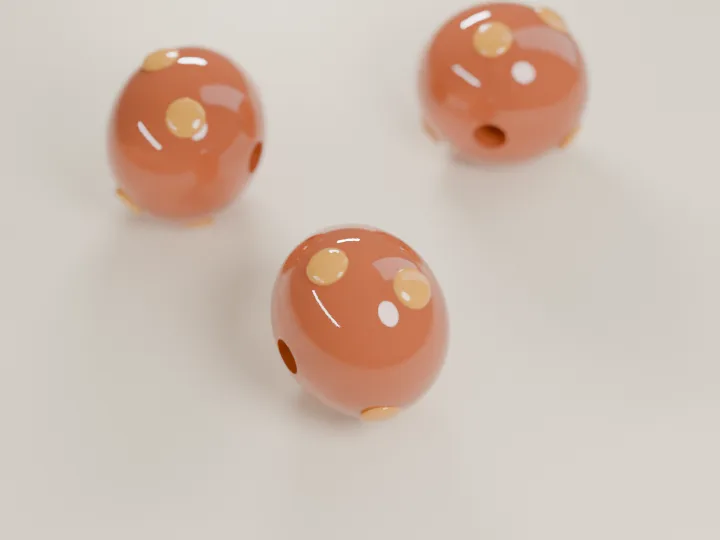
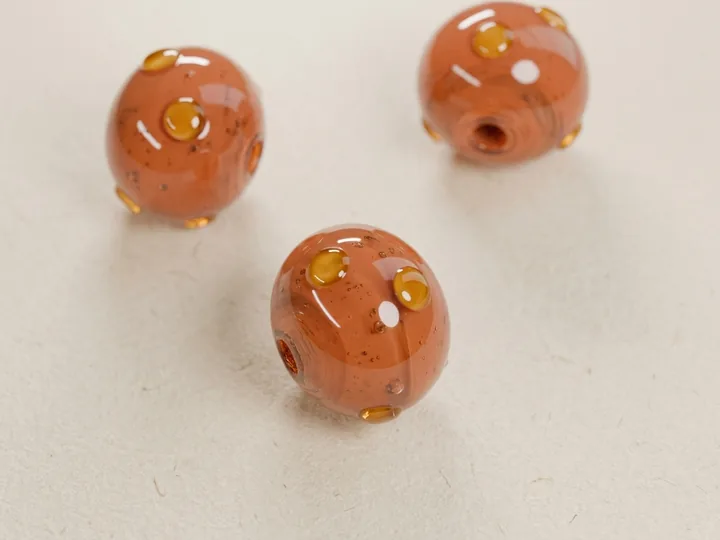
feat(site): photos made with Google Gemini
All 19 site photos and the social preview background now come from Google
Gemini. Product photos and the hero necklace start from their Blender renders
(art/blender/), so colors and shapes match the catalog; the two collection
banners and the workshop photo are new.

- scripts/gemini_jobs.json: a logo_style for the logo concepts, so they
  don't get the photo style; build_prompt picks it per job (with a test)
- docs/site-images.md rewritten for the Gemini workflow, decision 0012,
  credits in the README, a CHANGELOG entry
- new screenshots 22 and 23, and a product photo contact sheet
- photos.ts: drop the unused AI_PHOTOS list

diff --git a/frontend/src/site/photos.ts b/frontend/src/site/photos.ts
@@ -1,9 +1,8 @@
 /**
  * The site's photos (decision 0011), bundled by Vite from src/site/img/.
- *   - Product shots, the starter set and the hero necklace are rendered by
- *     scripts/render_site_art.py (Blender).
- *   - Scene photos (collection banners, workshop) are AI-generated, prepared by
- *     scripts/prepare_site_photos.py; see docs/site-images.md.
+ * All of them are made with Google Gemini (products and the hero from Blender
+ * reference renders in art/blender/) and prepared by scripts/prepare_site_photos.py;
+ * see docs/site-images.md.
  * A missing file is fine: the page falls back to its SVG drawing.
  */
 const FILES = import.meta.glob("./img/*.webp", { eager: true, query: "?url", import: "default" }) as Record<string, string>;
@@ -11,6 +10,3 @@ const FILES = import.meta.glob("./img/*.webp", { eager: true, query: "?url", imp
 export function photo(name: string): string | undefined {
   return FILES[`./img/${name}.webp`];
 }
-
-/** Scene photos that are generated with an AI tool, not rendered. */
-export const AI_PHOTOS = ["collection-amber-hollow", "collection-coastal-garden", "story-workshop"] as const;

diff --git a/docs/getting-started.html b/docs/getting-started.html
@@ -153,7 +153,7 @@ cd backend &amp;&amp; .venv/Scripts/python -m app.cli seed-demo         <span cl
   <h2><span class="n">5</span>Take the tour</h2>
   <div class="step">
     <div><p><b>① The company's website:</b> <a href="http://localhost:8000/site">localhost:8000/site</a>. The dark strip on top is the demo guide. It isn't part of the company's design; it shows reviewers the way.</p></div>
-    <figure><img src="showcase/img/22-site-home.jpg" alt="The public website of Hilda &amp; Luna Beadworks" loading="lazy"><figcaption>The product photos are Blender renders made by a script in the repo.</figcaption></figure>
+    <figure><img src="showcase/img/22-site-home.jpg" alt="The public website of Hilda &amp; Luna Beadworks" loading="lazy"><figcaption>The product photos were made with Google Gemini, starting from Blender renders of each item.</figcaption></figure>
   </div>
   <div class="step">
     <div><p><b>② Employee login → Enter as demo employee.</b> The sign-in is a simulation: no accounts, one button.</p></div>

diff --git a/frontend/src/site/ProductCard.tsx b/frontend/src/site/ProductCard.tsx
@@ -11,8 +11,7 @@ export function price(value: number, lang: Lang): string {
 }
 
 /**
- * The rendered product photo when there is one (scripts/render_site_art.py),
- * otherwise the SVG drawing.
+ * The product photo when there is one (docs/site-images.md), otherwise the SVG drawing.
  */
 export function Picture({ name, alt, fallback, className }: { name: string; alt: string; fallback: ReactNode; className?: string }) {
   const src = photo(name);

diff --git a/frontend/src/site/content.ts b/frontend/src/site/content.ts
@@ -83,7 +83,7 @@ export interface Collection {
   body: Bi;
   palette: string[];
   charms: CharmKind[];
-  /** Describes the AI-generated banner photo (docs/site-images.md), if there is one. */
+  /** Describes the banner photo (made with Google Gemini, docs/site-images.md). */
   photoAlt: Bi;
 }
 

diff --git a/scripts/gemini_images.py b/scripts/gemini_images.py
@@ -97,9 +97,11 @@ def png_bytes(path: Path) -> bytes:
 
 
 def build_prompt(job: dict, spec: dict) -> str:
+    """The job's text plus a shared style; logos use "logo_style" instead of the photo style."""
+    style = spec[f"{job['style']}_style"] if job.get("style") else spec["style"]
     if "product" in job:
-        return f"{spec['product_style']} The object: {job['product']}. {spec['style']}"
-    return f"{job['prompt']} {spec['style']}"
+        return f"{spec['product_style']} The object: {job['product']}. {style}"
+    return f"{job['prompt']} {style}"
 
 
 def generate_one(

diff --git a/backend/tests/test_gemini_script.py b/backend/tests/test_gemini_script.py
@@ -36,6 +36,12 @@ def test_product_prompts_keep_the_reference_and_shared_style():
     )
 
 
+def test_logos_use_their_own_style_instead_of_the_photo_style():
+    spec = {"style": "PHOTO.", "logo_style": "VECTOR."}
+    prompt = gemini.build_prompt({"name": "logo-1", "prompt": "A moon.", "style": "logo"}, spec)
+    assert prompt == "A moon. VECTOR."
+
+
 def test_every_job_has_a_prompt_and_existing_reference():
     import json
 

diff --git a/docs/site-images.md b/docs/site-images.md
@@ -1,56 +1,66 @@
 # Images for the demo company's website
 
-The public site at `/site` (decision 0011) uses two kinds of images. Both live in `frontend/src/site/img/` as WebP. Any image that's missing falls back to the site's SVG drawing, so the site always works.
+The public site at `/site` (decision 0011) shows 19 photos: the hero necklace, two collection banners, the workshop photo and 15 product shots. All of them were made with **Google Gemini** ([decision 0012](decisions/0012-site-images-with-gemini.md)) and live in `frontend/src/site/img/` as WebP. A missing image falls back to the site's SVG drawing, so the site always works. Nothing is fetched at runtime, and the app never calls Gemini.
 
 | Kind | Images | How they're made |
 |---|---|---|
-| **Product renders** | 5 beads, 5 charms, 4 findings, the starter set, the hero necklace | Rendered by Blender from `scripts/render_site_art.py`: geometry and shaders, no photos. Original, no license questions, and they match the catalog exactly. |
-| **Scene photos** | Amber Hollow banner, Coastal Garden banner, workshop photo | Generated once with an AI image tool, then prepared by `scripts/prepare_site_photos.py`. |
+| **Products and hero** | 5 beads, 5 charms, 4 findings, the starter set, the hero necklace | A Blender render (`art/blender/`) is attached as the reference, and Gemini turns it into a photo while keeping the object's colors, shape and arrangement. |
+| **Scenes** | Amber Hollow banner, Coastal Garden banner, workshop photo | Text prompt only. |
+| **Social preview** | `docs/showcase/social-preview.jpg` | Gemini makes the background; `scripts/make_social_preview.py` adds the title text, because image models don't spell reliably. |
 
-Blender is only a build-time tool; the app never needs it, and no image is fetched at runtime.
+## The prompts
 
-## Product renders (Blender)
+Every prompt is in [`scripts/gemini_jobs.json`](../scripts/gemini_jobs.json): one job per image, with its shape, its reference render (if any) and its text. Shared style lines keep the set consistent:
 
-From the repo root, with Blender 4.x or 5.x installed:
+- `style`: the photo look (soft studio light, shallow depth of field, warm muted color, no text or logos)
+- `product_style`: "turn this 3D render into a photorealistic macro product photo of the same object…", used by every product
+- `logo_style`: for the logo concepts, which are drawings, not photos
+
+To see the final prompt for each job: `backend/.venv/Scripts/python scripts/gemini_images.py prompts`.
+
+## Making the images
+
+### In the Gemini app (how this set was made)
+
+The Gemini API's free tier allows no image generation, so this set was made in the free Gemini app at gemini.google.com, one new chat per image. The steps were automated with Claude in Chrome, but they're the same by hand:
+
+1. Run `backend/.venv/Scripts/python scripts/gemini_images.py sheet`. It writes `data/gemini/prompts.html`, a page with every prompt, a copy button and the reference image to attach.
+2. For each job, open a new chat, attach the reference (if there is one) and paste the prompt.
+3. Download the full-size image and save it as `data/gemini/raw/<name>.jpg` (or `.png`). The `data/` folder is git-ignored.
+
+About 40 seconds per image; the free app had no trouble with 24 images in a day.
+
+### With the API (if your key has image quota)
 
 ```bash
-blender -b --factory-startup -P scripts/render_site_art.py -- --out frontend/src/site/img
-blender -b --factory-startup -P scripts/render_site_art.py -- --only GB-1014 hero-strand --samples 32   # a few, quick
+backend/.venv/Scripts/python scripts/gemini_images.py check      # lists image models, makes one test image
+backend/.venv/Scripts/python scripts/gemini_images.py generate   # makes every missing image
 ```
 
-On a laptop CPU the full set takes about 10–15 minutes at the default 96 samples. The product list at the top of the script mirrors `frontend/src/site/content.ts`; change both together.
+The key comes from the `GEMINI_API_KEY` environment variable and is sent only in a request header. When the quota runs out, the run stops; run it again later and it skips finished images.
 
-## Scene photos (AI-generated)
+### Preparing them for the site
 
-1. Generate each image below with the AI tool of your choice. Adobe Firefly's terms suit commercial use; ChatGPT and Midjourney work too, so check their terms. Use a landscape format and the largest size the tool offers.
-2. Save them in one folder, named exactly after their slot, for example `collection-amber-hollow.png`.
-3. Run:
+```bash
+backend/.venv/Scripts/python scripts/prepare_site_photos.py      # → frontend/src/site/img/*.webp
+backend/.venv/Scripts/python scripts/make_social_preview.py      # → docs/showcase/social-preview.jpg
+```
 
-   ```bash
-   backend/.venv/Scripts/python scripts/prepare_site_photos.py path/to/folder
-   ```
+`prepare_site_photos.py` center-crops each image to its slot's shape, resizes it and saves WebP. Use `--only NAME …` to redo just a few.
 
-   It center-crops each image to its slot's shape, resizes it and writes `frontend/src/site/img/<slot>.webp`.
-4. Look at the result on the site. Check for garbled "text", extra fingers or a logo, and regenerate if needed.
+Then look at the result on the site. Check for garbled "text", a wrong number of beads, or a logo, and regenerate if needed. The alt text for each photo is in `content.ts`; if an image shows something different, update its alt text to match.
 
-All three prompts share one style line so the set looks like one shoot:
+## The Blender reference renders
 
-> *Style: editorial product photography, natural light, shallow depth of field, warm and slightly muted color, fine film grain. No text, no letters, no logos, no watermark, no faces.*
+`art/blender/*.webp` are 3D renders from [`scripts/render_site_art.py`](../scripts/render_site_art.py), made from geometry and shaders only. They pin down each product's exact colors and shape, so the Gemini photo matches the catalog. To render them again (Blender 4.x or 5.x, about 10–15 minutes on a laptop CPU):
 
-### `collection-amber-hollow` (shown at 16:10; text sits over the top third)
+```bash
+blender -b --factory-startup -P scripts/render_site_art.py
+blender -b --factory-startup -P scripts/render_site_art.py -- --only GB-1014 --samples 32   # a few, quick
+```
 
-> Three-quarter overhead view of handmade lampwork glass beads in warm amber, rust orange and deep forest green, scattered on a dark walnut table, with a few small antique-bronze pewter charms shaped like acorns, mushrooms and a crescent moon, and two dry oak leaves. Low late-afternoon window light from the left. Keep the top third darker and uncluttered. *+ style line*
-
-### `collection-coastal-garden` (shown at 16:10; text sits over the top third)
-
-> Three-quarter overhead view of handmade lampwork glass beads in blush pink, seafoam mint, pale butter yellow and periwinkle, scattered on pale natural linen, with a few small polished silver charms shaped like scallop shells and leaves, and a sprig of sea lavender. Bright, airy morning light. Keep the top third soft and uncluttered. *+ style line*
-
-### `story-workshop` (shown at 21:9, the full width of the "Our story" card)
-
-> Close-up of an artisan's hands at a lampworking torch, winding a glowing molten orange glass bead onto a steel mandrel. Jars of colored glass rods on a small workbench, a dark background, warm light from the flame. Documentary style; hands and forearms only. *+ style line*
-
-The alt text for each photo is in `content.ts` (`photoAlt`). If an image ends up showing something different, update its alt text to match.
+The product list at the top of the script mirrors `frontend/src/site/content.ts`; change both together.
 
 ## Credits
 
-When the scene photos are added, say in the README that they are AI-generated and name the tool.
+The site's photos and the social preview background were made with Google Gemini. Hilda & Luna Beadworks and its products are fictional.

diff --git a/README.md b/README.md
@@ -37,7 +37,7 @@ The console above is for the person who manages the documents. The portal shows 
 
 | | |
 |---|---|
-| ![The public website of Hilda & Luna Beadworks](docs/showcase/img/22-site-home.jpg) **The company's website.** Written from its customer documents, with Blender-rendered product photos. | ![The intranet with the demo guide](docs/showcase/img/25-intranet-demo-guide.jpg) **The intranet.** Season dates, handbook highlights and news. The banner on top is the reviewer's demo guide. |
+| ![The public website of Hilda & Luna Beadworks](docs/showcase/img/22-site-home.jpg) **The company's website.** Written from its customer documents, with product photos made with Google Gemini. | ![The intranet with the demo guide](docs/showcase/img/25-intranet-demo-guide.jpg) **The intranet.** Season dates, handbook highlights and news. The banner on top is the reviewer's demo guide. |
 | ![Luna's answer with the cited passage open](docs/showcase/img/27-luna-source.jpg) **Luna.** Answers only from the documents, with the cited passage one click away. | ![Luna answering in Spanish with sources](docs/showcase/img/21-portal-luna.jpg) **In Spanish too.** A Spanish answer from an English manual. |
 
 - **A company intranet** for *Hilda & Luna Beadworks*, a fictional bead and charm maker in Monterrey. It has a season timeline, handbook highlights, department hours and news, all written from the demo documents.
@@ -46,7 +46,7 @@ The console above is for the person who manages the documents. The portal shows 
 - **ES / EN switch.** The interface changes language and Luna is asked to answer in it, whatever language the documents are in.
 - **Kept apart, still visible.** Employee chats don't appear in the console's chat history; the dashboard lists them under *Employee questions*, with their 👍/👎 feedback stored like any other answer.
 - **Simulated internal access:** there is no real sign-in. The footer says so.
-- **A public website** at `/site`, the company's outside face. It's modeled on real bead and charm makers: a home page with collections and the workshop's story, a catalog, a wholesale page, and help on shipping, returns and FAQ. All of it is written from the customer-facing demo documents. The product photos are 3D renders made in Blender by a script in the repo. Three scene photos (the collection banners and the workshop) have slots for AI-generated images; until they're added, the site shows drawings ([how the images are made](docs/site-images.md)). Its forms are demos that send nothing. **Employee login** opens a simulated staff sign-in, with one button into the intranet ([decision 0011](docs/decisions/0011-public-site.md)).
+- **A public website** at `/site`, the company's outside face. It's modeled on real bead and charm makers: a home page with collections and the workshop's story, a catalog, a wholesale page, and help on shipping, returns and FAQ. All of it is written from the customer-facing demo documents. Its photos were made with Google Gemini: each product photo starts from a Blender render of the catalog item, so colors and shapes match ([how the images are made](docs/site-images.md), [decision 0012](docs/decisions/0012-site-images-with-gemini.md)). Its forms are demos that send nothing. **Employee login** opens a simulated staff sign-in, with one button into the intranet ([decision 0011](docs/decisions/0011-public-site.md)).
 
 ### Try the demo
 
@@ -188,7 +188,7 @@ backend/tests/      pytest suite (fakes only)        backend/migrations/  Alembi
 frontend/src/       React + Vite + TypeScript + Tailwind: pages/, components/, api/, hooks/
 frontend/src/portal/  The employee portal and Luna (lazy-loaded, own fonts)
 frontend/src/site/    The demo company's public website (lazy-loaded)
-scripts/            Blender product renders and site photo prep (build-time only)
+scripts/            site image tools: Gemini prompts, Blender references, WebP prep (build-time only)
 backend/demo/       Fictional Hilda & Luna Beadworks documents for `seed-demo`
 e2e/                End-to-end test kit and a fictional sample corpus
 docs/decisions/     Why things are the way they are   docs/test-reports/  End-to-end reports
@@ -204,4 +204,4 @@ Your documents, the database, vectors and backups live in `backend/data/`, which
 
 ## License
 
-[MIT](LICENSE). The bundled Fraunces and Figtree fonts keep their own [SIL Open Font License 1.1](https://openfontlicense.org). Hilda & Luna Beadworks, its people and its documents are fictional.
+[MIT](LICENSE). The bundled Fraunces and Figtree fonts keep their own [SIL Open Font License 1.1](https://openfontlicense.org). Hilda & Luna Beadworks, its people and its documents are fictional. The website's photos and the social preview background were made with Google Gemini ([details](docs/site-images.md)).

diff --git a/docs/decisions/0012-site-images-with-gemini.md b/docs/decisions/0012-site-images-with-gemini.md
@@ -1,0 +1,23 @@
+# 0012: Site images made with Google Gemini
+
+Date: 2026-11-10
+
+## Context
+
+Decision 0011 gave the public site Blender product renders plus three AI scene photos still to be made. The user wasn't convinced by the renders (clean, but visibly 3D) or by the drawn social preview, and asked for Google Gemini to make the images, within a free account's quota.
+
+## Decision
+
+- **Gemini makes all 19 site photos and the social preview background.** Products and the hero necklace attach their Blender render as a reference, so the photo keeps the catalog's exact colors, shapes and piece counts. The scenes are text-only.
+- **The Blender renders become references.** They move to `art/blender/` and are no longer shown on the site.
+- **The free Gemini app, not the API.** The API's free tier has a quota of 0 for every image model, so the images were made in gemini.google.com, one chat per image, driven by Claude in Chrome in the user's own signed-in browser. `scripts/gemini_images.py` keeps an API route (`generate`) for keys with quota, and a `sheet` command for doing it by hand.
+- **Prompts live in the repo** (`scripts/gemini_jobs.json`) with shared style lines, so the set can be made again and stays consistent. The raw downloads and a manifest (date, source file) stay in the git-ignored `data/gemini/`.
+- **Text is added in code.** The social preview's title is drawn by `scripts/make_social_preview.py`; the image prompts ask for no text.
+- **Credited** in the README and `docs/site-images.md`.
+
+## Consequences
+
+- The site's images are about 0.8 MB of WebP in total, up from about 0.13 MB. Product cards, banners and the workshop photo are lazy-loaded; only the hero loads up front.
+- Regenerating gives different images. The references and prompts keep them close, but not identical.
+- Gemini is a build-time tool, like Blender. The app makes no cloud call at runtime (CLAUDE.md), and no API key is stored in the repo.
+- Four logo concepts were also made (the `logo-*` jobs). The user kept the current mark, which is the same idea as concept 1, so the logo is unchanged.

diff --git a/docs/decisions/0011-public-site.md b/docs/decisions/0011-public-site.md
@@ -39,7 +39,7 @@ Internal facts stay on the intranet: sales figures, the foundry delay, HR policy
 - There is no username or password field, so the page can't suggest security that isn't there.
 - `/intranet` is still reachable directly, as 0010 says. Real authentication would sit in front of `/intranet` and the admin API.
 
-**Images: Blender renders plus a few AI scenes (hybrid).** First the site used only SVG drawings; the user then asked for realistic images. The laptop has integrated graphics and 7 GB of RAM, too little to run an image model locally next to Ollama, so:
+**Images: Blender renders plus a few AI scenes (hybrid).** *Superseded by [0012](0012-site-images-with-gemini.md): all site photos are now made with Google Gemini, and the renders are its references.* First the site used only SVG drawings; the user then asked for realistic images. The laptop has integrated graphics and 7 GB of RAM, too little to run an image model locally next to Ollama, so:
 - **Product renders.** Every bead, charm and finding, the starter set and the hero necklace are rendered by Blender from `scripts/render_site_art.py`, with geometry and shaders only:
   - lampwork glass with dots, swirls, facets and a bored hole
   - pewter charms cut from the same outlines as the SVG drawings, in gold, rhodium or antique bronze

diff --git a/docs/walkthrough.md b/docs/walkthrough.md
@@ -26,9 +26,9 @@ This is the company's public face, modeled on real bead and charm makers. Everyt
 
 The dark strip at the top is **not part of the company's design**. It's the demo guide, there for reviewers, and it points the way: *Employee login → intranet → RAG console*.
 
-![The catalog with rendered product photos](showcase/img/23-site-catalog.jpg)
+![The catalog with its product photos](showcase/img/23-site-catalog.jpg)
 
-The product photos are 3D renders made in Blender by [`scripts/render_site_art.py`](../scripts/render_site_art.py). They're original, they match the catalog exactly, and they can be rendered again. See [how the images are made](site-images.md) and the [full set of renders](showcase/img/30-product-renders.jpg).
+The product photos were made with Google Gemini. Each one starts from a 3D render of the item made in Blender by [`scripts/render_site_art.py`](../scripts/render_site_art.py), so the photo keeps the catalog's colors and shapes. See [how the images are made](site-images.md) and the [full set of product photos](showcase/img/30-product-photos.jpg).
 
 ## 2. Into the intranet
 

diff --git a/CHANGELOG.md b/CHANGELOG.md
@@ -34,6 +34,7 @@ The format follows [Keep a Changelog](https://keepachangelog.com/en/1.1.0/). Ver
 
 ### Changed
 
+- **The website's photos are now made with Google Gemini** ([decision 0012](docs/decisions/0012-site-images-with-gemini.md), [how](docs/site-images.md)). All 19 site photos (the hero necklace, 15 products, two collection banners and the workshop) and the social preview background. Each product photo starts from its Blender render, now kept as a reference in `art/blender/`, so colors and shapes match the catalog. The prompts are in `scripts/gemini_jobs.json`, and `scripts/gemini_images.py` can print them, make a prompt sheet for the Gemini app, or call the API when a key has image quota.
 - README: CI and license badges, a stack line, and the slide deck linked on GitHub Pages.
 - Slide deck: v0.6.0, two new slides (the demo company, and Luna), and 179 tests.
 
